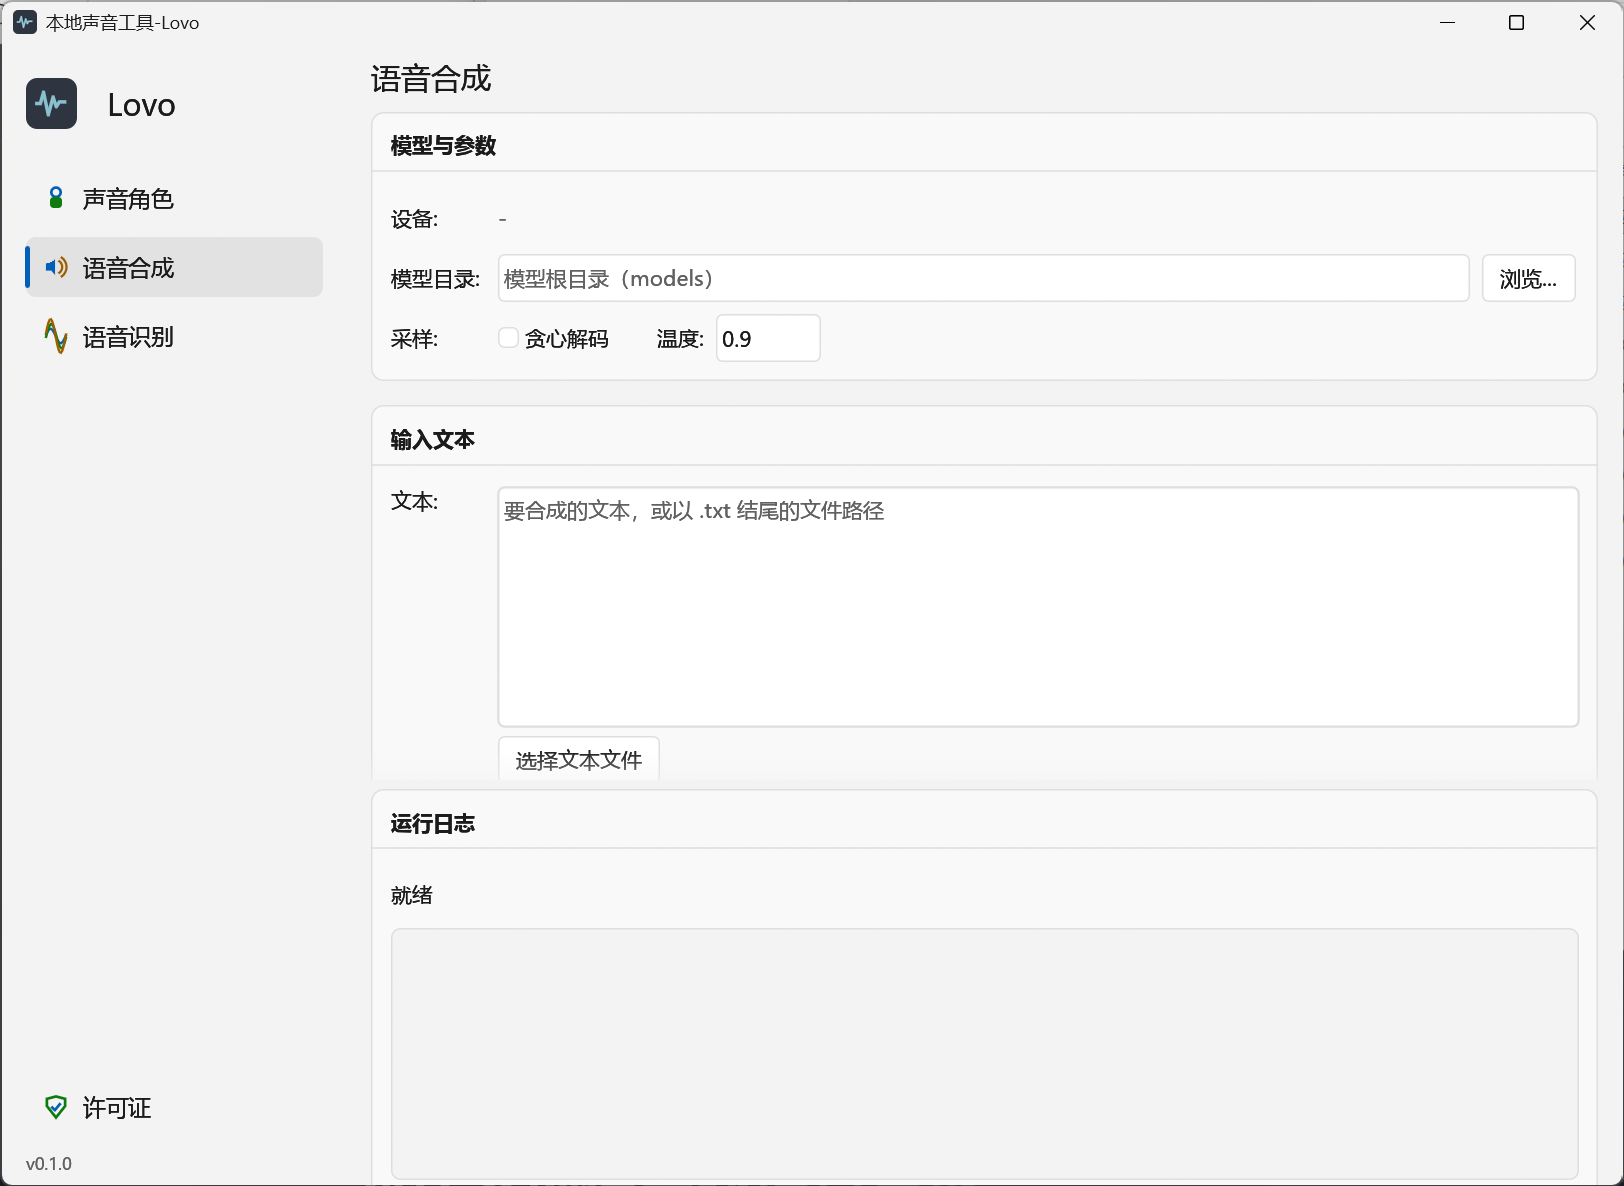
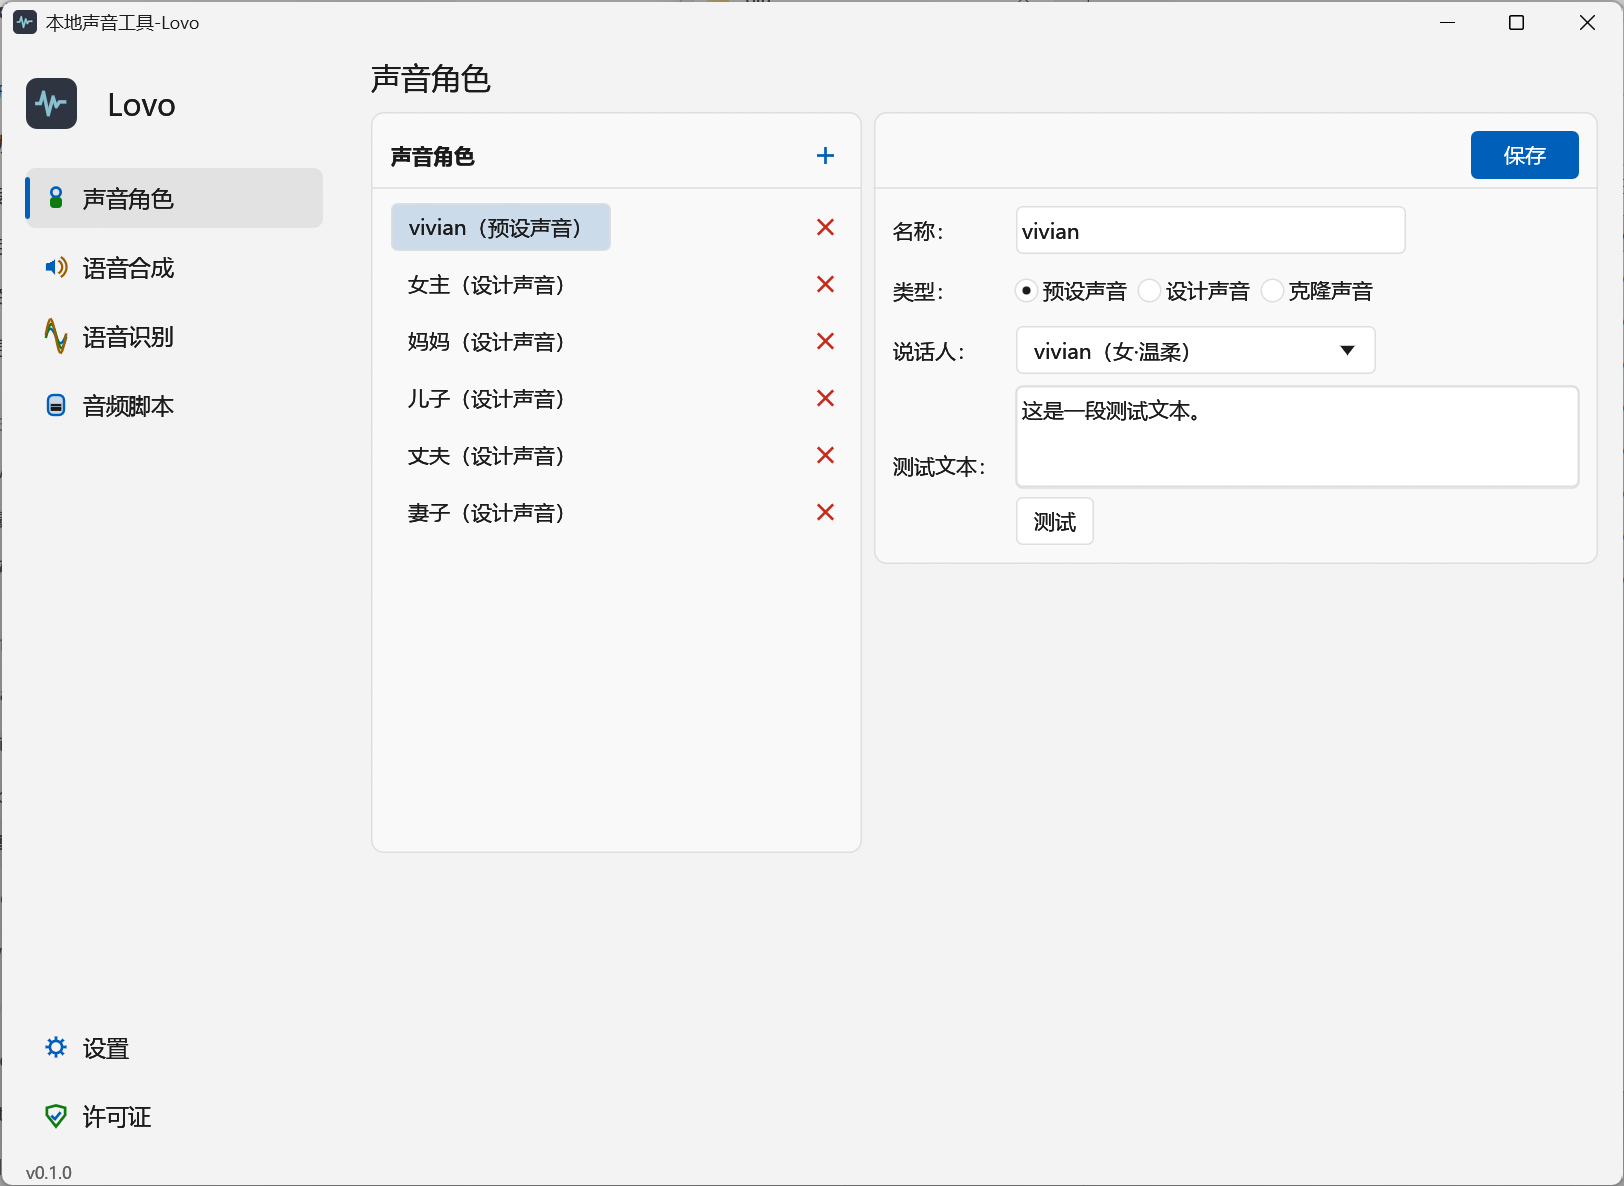
Lovo 落地页更新：新增音频脚本生成、多角色剧本合成、实时波形、声音角色库四项能力

diff --git a/Lovo/index.html b/Lovo/index.html
@@ -238,8 +238,8 @@ footer{margin-top:90px;border-top:1px solid var(--border);padding:36px 24px 44px
       </div>
       <div data-reveal style="transition-delay:.15s">
         <div class="shot">
-          <img src="images/voice-ui.png" alt="Lovo 桌面界面 —— 声音角色 / 语音合成 / 语音识别" loading="lazy">
-          <div class="cap"><b>Lovo</b> · 桌面端：声音角色 / 语音合成 / 语音识别 / 许可证管理，本地推理一键操作。</div>
+          <img src="images/voice-ui.png" alt="Lovo 桌面界面 —— 声音角色 / 语音合成 / 语音识别 / 音频脚本" loading="lazy">
+          <div class="cap"><b>Lovo</b> · 桌面端：声音角色 / 语音合成 / 语音识别 / 音频脚本 / 设置 / 许可证管理，本地推理一键操作。</div>
         </div>
       </div>
     </div>
@@ -301,7 +301,11 @@ footer{margin-top:90px;border-top:1px solid var(--border);padding:36px 24px 44px
       <div class="feat" data-reveal style="transition-delay:.1s"><span class="f-icon">✨</span><h4>音色设计</h4><p>VoiceDesign 模型用一句话文字描述，即生成全新的目标音色，无需任何参考音频；也可用 CLI 的 design 子命令驱动。</p><span class="kbd">design --instruct</span></div>
       <div class="feat" data-reveal style="transition-delay:.15s"><span class="f-icon">🌐</span><h4>多语言</h4><p>中文、英文多语言输出，并提供日韩特色说话人（sohee / ono_anna），适配出海内容与多语种旁白需求。</p><span class="kbd">--language</span></div>
       <div class="feat" data-reveal><span class="f-icon">📄</span><h4>长文本自动分段</h4><p>超过 max-chars 的文本智能切分逐段合成再拼接，小说级长文、整章旁白直接喂入。</p><span class="kbd">--max-chars 200</span></div>
-      <div class="feat" data-reveal style="transition-delay:.05s"><span class="f-icon">⚡</span><h4>设备自动选择</h4><p>单一二进制，运行时优先 CUDA、不可用自动回退 CPU，无需区分构建版本。</p><span class="kbd">CUDA → CPU</span></div>
+      <div class="feat" data-reveal style="transition-delay:.05s"><span class="f-icon">🎬</span><h4>音频脚本生成</h4><p>桌面端调用大模型把小说文本改写成带 <span class="mono">[角色:情绪]</span> 标记的 TTS 脚本，一键质检格式、角色统一与情绪标注。</p><span class="kbd">AI 脚本 · 检查</span></div>
+      <div class="feat" data-reveal style="transition-delay:.1s"><span class="f-icon">🎭</span><h4>多角色剧本合成</h4><p>识别文本中的角色标记，按行解析、相邻同角色行合并成组，多角色台词拼接进同一个 WAV，有声书制作不再逐段手动切。</p><span class="kbd">[角色:情绪]</span></div>
+      <div class="feat" data-reveal style="transition-delay:.15s"><span class="f-icon">📈</span><h4>实时播放波形</h4><p>朗读试听时 48 频带频谱竖条随声跳动，音频能量与播放状态一目了然，不落盘即听即验。</p><span class="kbd">48-BAND WAVE</span></div>
+      <div class="feat" data-reveal><span class="f-icon">🗂</span><h4>声音角色库</h4><p>预设 / 设计 / 克隆角色本地统一管理，新增、编辑、删除即点即存；每条角色可配测试文本，一键试听。</p><span class="kbd">SQLite · 本地</span></div>
+      <div class="feat" data-reveal><span class="f-icon">⚡</span><h4>设备自动选择</h4><p>单一二进制，运行时优先 CUDA、不可用自动回退 CPU，无需区分构建版本。</p><span class="kbd">CUDA → CPU</span></div>
       <div class="feat" data-reveal style="transition-delay:.1s"><span class="f-icon">🔌</span><h4>OpenAI 兼容 API</h4><p>POST /v1/audio/speech 请求体与官方一致，现有集成改个 base_url 即可指向本地。</p><span class="kbd">:8000/v1/audio/speech</span></div>
       <div class="feat" data-reveal style="transition-delay:.15s"><span class="f-icon">🎛</span><h4>采样与输出可控</h4><p>贪心 / temperature 采样调节，WAV 输出；API 支持 8–96 kHz 采样率重采样。</p><span class="kbd">--greedy / --temperature</span></div>
       <div class="feat" data-reveal><span class="f-icon">🎧</span><h4>语音识别 (ASR)</h4><p>Qwen3-ASR 将音频转写为文本，自动检测语言，也可强制指定语言与自定义最大 token。</p><span class="kbd">asr --audio</span></div>
